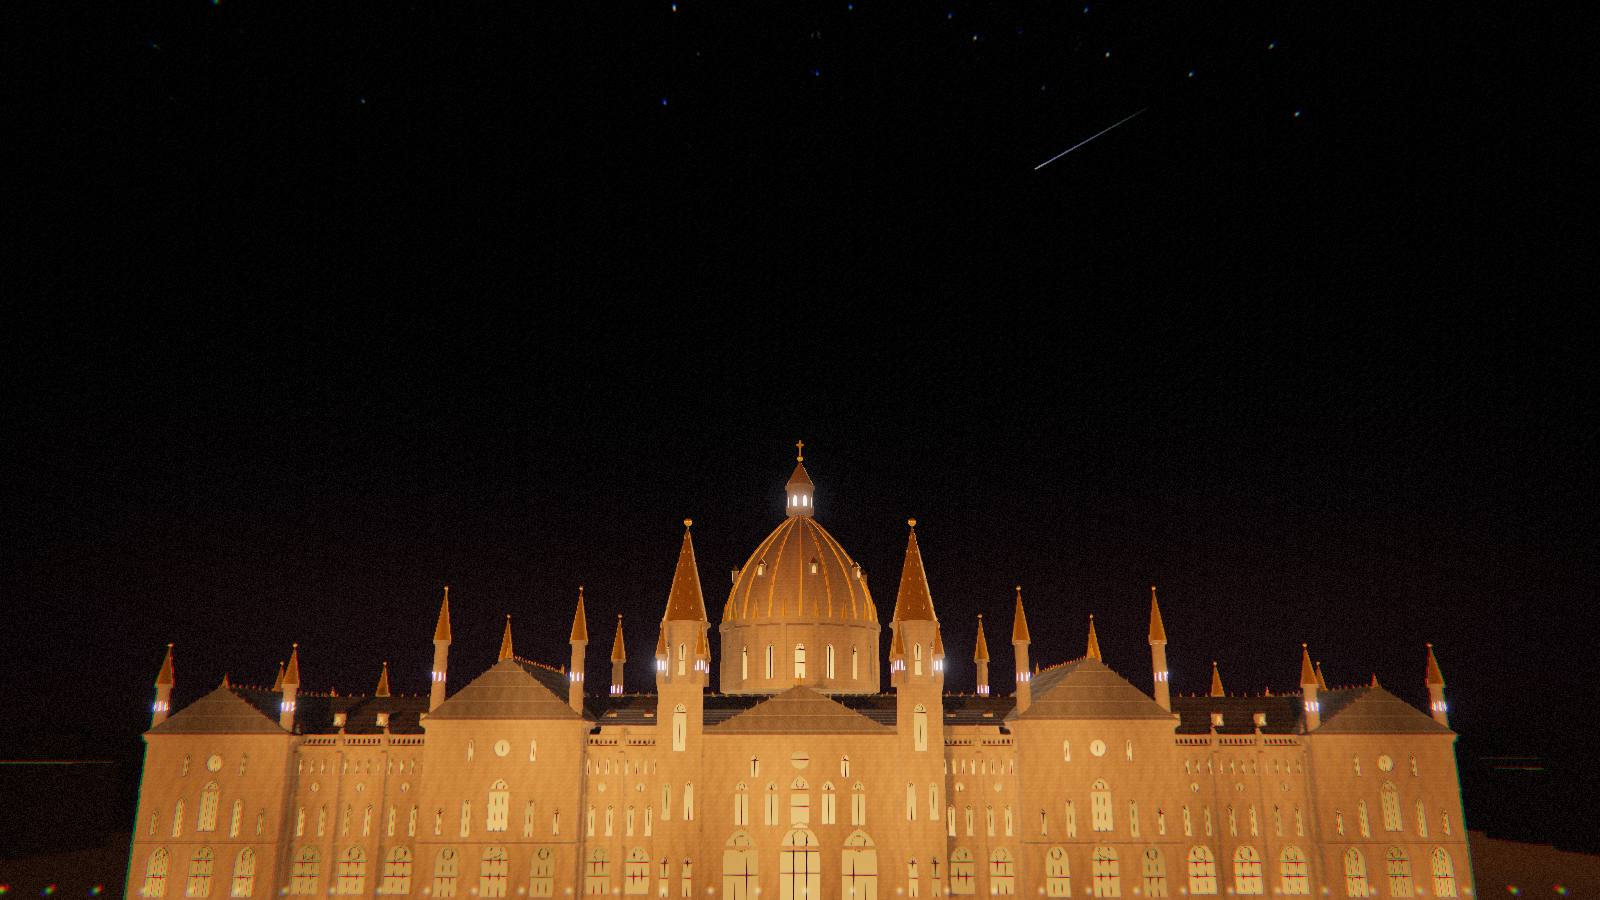
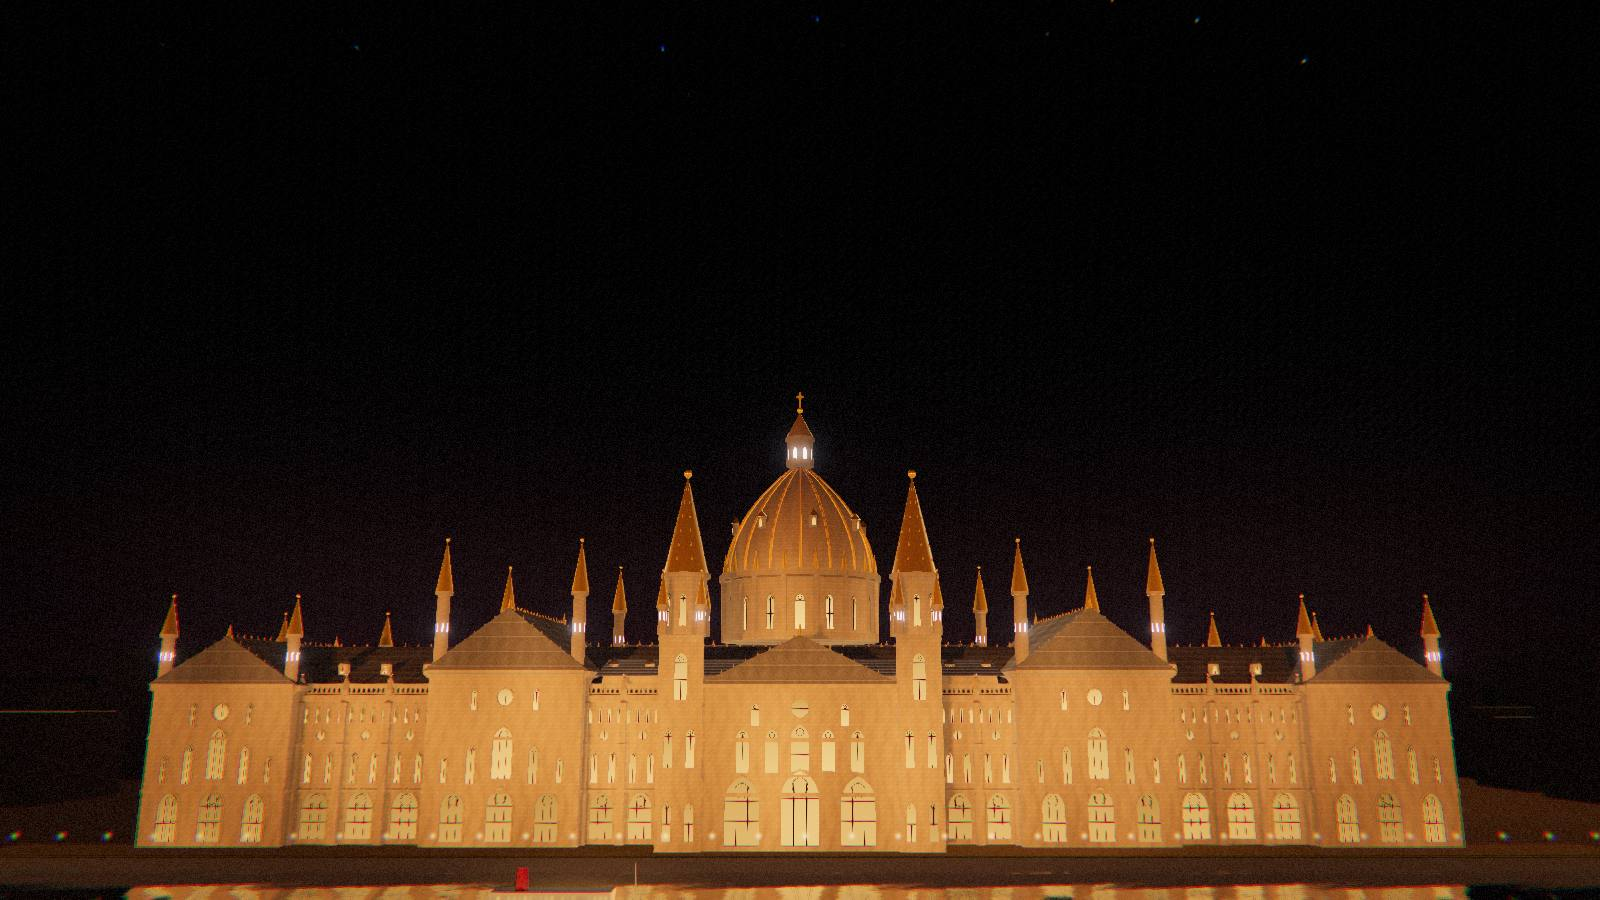
Hero: camera tilted down (same height) so the Parliament rises toward the text; 3-line title restored

Changed region(s): [[0.0, 0.4667, 1.0, 1.0], [0.0, 0.84, 0.0312, 0.8711], [0.0, 0.7778, 0.0312, 0.8089]]

diff --git a/scene3d/parliament3d.js b/scene3d/parliament3d.js
@@ -965,7 +965,7 @@ function buildInterior(mobile, ctx) {
 /* waypoints: [page progress, position, look-at, fov]; progress 0..6 = hero, vitrine,
    prix, services, à propos, FAQ, contact (see PARL_STOPS in the page). */
 const PATH_A = [
-  [0, [0, 30, 262], [0, 100, 0], 44], /* the first screen: the whole Parliament in the lower half, the sky above it for the title (was [0,12,176] -> [0,48,0], building behind the text) */
+  [0, [0, 30, 262], [0, 88, 0], 44], /* the first screen: the whole Parliament in the lower half, the sky above it for the title (was [0,12,176] -> [0,48,0], building behind the text) */
   [1, [-172, 58, 190], [0, 40, 0], 44],
   [2, [-104, 17, 86], [-70, 31, 0], 46],
   [3, [12, 124, 88], [0, 56, -6], 48],

diff --git a/public/alexstudio/index.html b/public/alexstudio/index.html
@@ -860,10 +860,6 @@ footer.site-foot a:hover{color:var(--cyan);}
   .orbit-wrap,.frame-glow{display:none;}
   .frame-shell{animation:none;}
 }
-@media (min-width:1100px){
-  .hero .tagline{max-width:40ch;}
-  .hero-sub{max-width:66ch;}
-}
 /* Phones: the hero text sits at the top so the Parliament shows underneath it (the camera is raised to match). */
 @media (max-width:820px){
   .hero{justify-content:flex-start;padding:calc(112*var(--u)) var(--gutter) calc(40*var(--u));}

diff --git a/public/alexstudio/parliament3d.js b/public/alexstudio/parliament3d.js
@@ -15540,7 +15540,7 @@ var hd = [
 		],
 		[
 			0,
-			100,
+			88,
 			0
 		],
 		44
